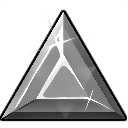
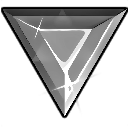
Update NFT

diff --git a/js/app.c37e594b.js b/js/app.c37e594b.js
@@ -1,0 +1,1 @@
+(()=>{"use strict";var e={76893:(e,t,o)=>{o(18964),o(40702);var a=o(61957),n=o(68266),r=o(59835);function s(e,t,o,a,n,s){const i=(0,r.up)("router-view");return(0,r.wg)(),(0,r.j4)(i)}const i=(0,r.aZ)({name:"App"});var l=o(11639);const u=(0,l.Z)(i,[["render",s]]),c=u;var h=o(23340),d=o(7363);const p=(0,h.h)((()=>{const e=(0,d.WB)();return e}));var m=o(18910);const f=[{path:"/",component:()=>Promise.all([o.e(736),o.e(64),o.e(586)]).then(o.bind(o,12586)),children:[{path:"",component:()=>Promise.all([o.e(736),o.e(64),o.e(959)]).then(o.bind(o,62963))},{path:"/games",component:()=>Promise.all([o.e(736),o.e(64),o.e(77)]).then(o.bind(o,92111))},{path:"/dice",component:()=>Promise.all([o.e(736),o.e(64),o.e(125)]).then(o.bind(o,68109))},{path:"/diceFaq",component:()=>Promise.all([o.e(736),o.e(64),o.e(465)]).then(o.bind(o,70465))},{path:"/invest",component:()=>Promise.all([o.e(736),o.e(64),o.e(504)]).then(o.bind(o,29096))},{path:"/nft",component:()=>Promise.all([o.e(736),o.e(948)]).then(o.bind(o,1948))}]},{path:"/:catchAll(.*)*",component:()=>Promise.all([o.e(736),o.e(431)]).then(o.bind(o,39431))}],y=f,g=(0,h.BC)((function(){const e=m.PO,t=(0,m.p7)({scrollBehavior:()=>({left:0,top:0}),routes:y,history:e("/")});return t}));async function v(e,t){const o=e(c);o.use(n.Z,t);const a="function"===typeof p?await p({}):p;o.use(a);const r="function"===typeof g?await g({store:a}):g;return a.use((()=>({router:r}))),{app:o,store:a,router:r}}var b=o(86229);const w={config:{},plugins:{Meta:b.ZP}};var k=o(17779);const q="/";async function _({app:e,router:t,store:o},a){let n=!1;const r=e=>{try{return t.resolve(e).href}catch(o){}return Object(e)===e?null:e},s=e=>{if(n=!0,"string"===typeof e&&/^https?:\/\//.test(e))return void(window.location.href=e);const t=r(e);null!==t&&(window.location.href=t)},i=window.location.href.replace(window.location.origin,"");for(let u=0;!1===n&&u<a.length;u++)try{await a[u]({app:e,router:t,store:o,ssrContext:null,redirect:s,urlPath:i,publicPath:q})}catch(l){return l&&l.url?void s(l.url):void k.error("[Quasar] boot error:",l)}!0!==n&&(e.use(t),e.mount("#q-app"))}v(a.ri,w).then((e=>Promise.all([Promise.resolve().then(o.bind(o,93662)),Promise.resolve().then(o.bind(o,34136))]).then((t=>{const o=t.map((e=>e.default)).filter((e=>"function"===typeof e));_(e,o)}))))},34136:(e,t,o)=>{o.r(t),o.d(t,{api:()=>s,default:()=>i});var a=o(23340),n=o(39981),r=o.n(n);const s=r().create({baseURL:"https://api.example.com"}),i=(0,a.xr)((({app:e})=>{e.config.globalProperties.$axios=r(),e.config.globalProperties.$api=s}))},93662:(e,t,o)=>{o.r(t),o.d(t,{default:()=>u});var a=o(23340),n=o(9991);const r={failed:"Action failed",success:"Action was successful",language:"Language",nft:"NFT",games:"Games",play:"Play",invest:"Invest",divest:"Divest",houseEdge:"House Edge",rake:"Rake",profit:"Profit",APR:"APR",invested:"Invested",value:"Value",payout:"Payout",chance:"Chance",wager:"Wager",rollLo:"Roll LO",rollHi:"Roll HI",player:"Player",betId:"Bet ID",lucky:"Lucky",target:"Target",howToPlay:"How to play",allBets:"All Bets",myBets:"My Bets",randomNumVRF:"We use blockchain oracle such as",randomNumVRF2:"to create SAFE and FAIR random number, everyone can easily verify the generation process.",diceFaqs:{faq:"Dice Game FAQ",ask1:"What is this Dice Game?",qus1_1:'Crystal Dice gmae is a crypto casino where you can play a blockchain dice game with a low(1%) house edge and gamble with your crypto currencies. Pick your chance to win and how much to bet, then select "HI or LO" to roll the dice and get an instant result, win or lose.',qus1_2:"Alternatively you can invest in the game's bankroll, and share in the game's profits (or losses), while helping us offer bigger maximum bets to the players.",ask2:"What does 1% house edge mean?",qus2:"Some people have been confused by this. They ask when we take the 1% off, is it after each win. It is not that. The house edge is built in to the payouts. When you play the 50% game and win, you receive 1.98 times your stake as your payout. If there was no house edge, you would receive 2 times your stake. 1.98 is 1% less than 2. That is the house edge.",ask3:"How does the Dice game work?",toPlay:"To Play:",qus3_1:{1:"Select a",2:"to win"},qus3_2:{1:"Set the",2:"size"},qus3_3:{1:"Click",2:"or",3:"depending on whether you think your roll will be high or low"},qus3_4:"Each time you roll the dice, you get a number between 0 and 100.",qus3_5:{1:"When rolling low, you need to roll less than the",2:"you selected. When rolling high, you need to roll",3:"or over."},qus3_6:"So with a 25% chance to win, low rolls win with less than 25.0000, and high rolls win with 75.0000 or more.",qus3_7:{1:"Alternatively, you can select the",2:"multiplier and the",3:"to win will be calculated for you."},qus3_8:{1:"Also, you can select the",2:"you want to make if you win, and the",3:"size will be calculated for you."},ask4:"What is the max profit?",qus4:"The max profit indicator tells you how much the house is prepared to risk per roll, and is based on the size of the house bankroll. This amount remains unchanged whatever your chance of winning. It adjusts in real time as the house bankroll grows or shrinks.",ask5:"Why are the dice rolls so slow?",qus5:"Everything is on the blockchain and a safe block confirmation time may be 20 seconds or more.",ask6:"What if I can't stop?",qus6_1:"Like all forms of gambling, online gambling can become an addiction that can have serious negative effects on your life. If you lose more than you planned to or can safely afford and find yourself struggling to control time and/or money spent gambling, please check these sites for information that could help you:",qus6_2:"Games of chance have no memory between consecutive rounds, so increasing the amount you wager after a streak of losses has no effect on the odds of winning the next round.",ask7:"Is this game a scam or Ponzi scheme? Is it insolvent?",qus7_1:"If the game was doing something simple like refusing to pay out winners, then everyone would have heard about it already.",qus7_2:"Everything is on the blockchain, and we have all the rules determined in the program code. Everyone can easily check the game smart contracts' source code on the blockchain explorer. You can find the links in each game's info box."}},s={failed:"操作失敗",success:"操作成功",language:"語言",nft:"NFT",games:"遊戲",play:"玩遊戲",invest:"投資",divest:"撤資",houseEdge:"莊家優勢",rake:"抽水",profit:"利潤",APR:"年利率(APR)",invested:"已投資",value:"價值",payout:"支付",chance:"勝率",wager:"賭注",rollLo:"買小",rollHi:"買大",player:"玩家",betId:"投注號",lucky:"幸運數",target:"目標數",howToPlay:"怎麼玩",allBets:"所有投注",myBets:"我的投注",randomNumVRF:"我們使用",randomNumVRF2:"區塊鏈預言機來創建安全且公平的隨機數, 每個人都可以輕鬆驗證生成過程.",diceFaqs:{faq:"骰子遊戲常見問題",ask1:"這是什麼骰子遊戲?",qus1_1:"水晶骰子遊戲是一個加密賭場, 您可以在其中玩低(1%)莊家優勢的區塊鏈骰子遊戲, 並使用您的加密貨幣進行賭博. 選擇您獲勝的機會和下注的金額, 然後選擇“買大/買小”來擲骰子並獲得即時結果, 無論輸贏.",qus1_2:"或者, 您可以投資遊戲的資金, 分享遊戲的利潤(或損失), 同時幫助我們為玩家提供更大的最大賭注。",ask2:"1%的莊家優勢是什麼意思?",qus2:"有些人對此感到困惑. 他們問我們什麼時候拿1%的優勢, 是在每次獲勝之後嗎? 不是這樣的, 莊家優勢內置於支出中. 當您玩50%勝率的遊戲並獲勝時, 您將獲得1.98倍的本金作為您的支出. 如果沒有莊家優勢, 您將獲得2倍的本金. 1.98比2少1%, 這就是莊家優勢.",ask3:"骰子遊戲如何運作?",toPlay:"玩法:",qus3_1:{1:"選擇一個",2:"來遊戲"},qus3_2:{1:"設置",2:"金額"},qus3_3:{1:"點擊",2:"或者",3:"取決於你認為你的幸運數是高還是低"},qus3_4:"每次擲骰子時, 您都會得到一個介於0和100之間的數字.",qus3_5:{1:"當買小時, 您需要骰子點數/幸運數小於您選擇的",2:". 當買大時, 您需要骰子點數/幸運數等於或大於",3:"."},qus3_6:"因此, 選擇25%的勝率, 當買小時骰子點數/幸運數低於25.0000獲勝, 而當買大時骰子點數/幸運數高於75.0000或更多獲勝.",qus3_7:{1:"另一种选择, 您可以選擇",2:"乘數, 系統將為您計算獲勝的",3:"."},qus3_8:{1:"此外, 您可以選擇如果您贏了想要賺取的",2:", 系統將會為您計算出需要的",3:"大小."},ask4:"什么是最大利润?",qus4:"最大利潤指標告訴您莊家每輪準備承擔多少風險, 並且基於莊家資金的大小. 無論您獲勝的機會如何, 該金額都保持不變. 它會隨著莊家資金的增加或減少而實時調整.",ask5:"為什麼擲骰子這麼慢?",qus5:"一切都在區塊鏈上，安全的區塊確認時間可能是 20 秒或更長時間.",ask6:"如果我停不下來怎麼辦?",qus6_1:"像所有形式的赌博一样, 在线赌博可能会成为一种成瘾, 对您的生活产生严重的负面影响. 如果您的损失超出您的计划或安全承受能力, 并且发现自己难以控制赌博的时间和/或金钱, 请查看这些网站以获取可以帮助您的信息:",qus6_2:"機會勝率遊戲在連續回合之間沒有記憶，因此在連續赌輸後增加您的賭注對下一輪獲勝的機率沒有影響。",ask7:"這個遊戲是騙局還是龐氏騙局? 是資不抵債嗎?",qus7_1:"如果遊戲只是做一些簡單的事情, 比如拒絕支付獲勝者, 那麼每個人都已經聽說過.",qus7_2:"一切都在區塊鏈上, 我們在程序代碼中確定了所有規則. 大家可以在區塊鏈瀏覽器上輕鬆查看遊戲智能合約的源碼. 您可以在每個遊戲的信息框中找到鏈接."}},i={failed:"失敗",success:"成功",language:"言語",nft:"NFT",games:"ゲーム",play:"遊びます",invest:"投資",divest:"売却",houseEdge:"ハウスエッジ",rake:"レーキ",profit:"利益",APR:"APR",invested:"投資済み",value:"価値",payout:"支払う",chance:"勝率",wager:"賭け金",rollLo:"小さく買う",rollHi:"大きく買う",player:"選手",betId:"賭け番号",lucky:"幸運数",target:"対象数",howToPlay:"プレイ方法",allBets:"All Bets",myBets:"My Bets",randomNumVRF:"",randomNumVRF2:"などのブロックチェーンオラクルを使用して、安全で公正な乱数を作成します。誰でも簡単に生成プロセスを確認できます。",diceFaqs:{faq:"Dice Game FAQ",ask1:"このダイスゲームは何ですか？",qus1_1:"クリスタルダイスゲームは、1％の低いハウスエッジでブロックチェーンダイスゲームをプレイし、暗号通貨でギャンブルをすることができる暗号カジノです。 勝つチャンスと賭ける金額を選び、「HIまたはLO」を選択してサイコロを振り、即座に結果を得て、勝つか負けるかを選択します。",qus1_2:"または、ゲームのバンクロールに投資して、ゲームの利益（または損失）を共有しながら、プレーヤーにより大きな最大ベットを提供することもできます。",ask2:"1％ハウスエッジとはどういう意味ですか？",qus2:"一部の人々はこれに混乱しています。 彼らは、私たちが1％オフになるのはいつか、それは各勝利の後であるかと尋ねます。 そうではありません。 ハウスエッジはペイアウトに組み込まれています。 50％のゲームをプレイして勝つと、ペイアウトの1.98倍の賭け金を受け取ります。 ハウスエッジがなかった場合、あなたはあなたの賭け金の2倍を受け取ります。 1.98は2より1％少ないです。それは家の端です。",ask3:"ダイスゲームはどのように機能しますか？",toPlay:"遊ぶには：",qus3_1:{1:"",2:"を選ぶ"},qus3_2:{1:"",2:"のサイズを設定する"},qus3_3:{1:"クリック",2:"または",3:"あなたがあなたのロールが高いか低いと思うかどうかに応じて"},qus3_4:"サイコロを振るたびに、0〜100の数字が出ます。",qus3_5:{1:"低く転がるときは、選択した",2:"より少なく転がる必要があります。 高く転がるときは、",3:"以上転がる必要があります。"},qus3_6:"したがって、25％の勝率を選択すると、購入が小さい場合はサイコロポイント/ラッキー数が25.0000未満になり、大きい購入の場合はサイコロポイント/ラッキー数が75.0000以上になります。",qus3_7:{1:"または、",2:"マルチプライヤーを選択すると、勝つための",3:"が計算されます。"},qus3_8:{1:"また、勝った場合の",2:"を選択すると、",3:"のサイズが計算されます。"},ask4:"最大利益はいくらですか？",qus4:"最大利益指標は、家がロールごとにリスクを負う準備ができているかどうかを示し、家のバンクロールのサイズに基づいています。 この金額は、勝つチャンスが何であれ、変わりません。 家のバンクロールが拡大または縮小すると、リアルタイムで調整されます。",ask5:"サイコロの目がとても遅いのはなぜですか？",qus5:"すべてがブロックチェーン上にあり、安全なブロック確認時間は20秒以上になる場合があります。",ask6:"プレイをやめられない場合はどうなりますか？",qus6_1:"あらゆる形態のギャンブルと同様に、オンラインギャンブルは、あなたの人生に深刻な悪影響を与える可能性のある依存症になる可能性があります。 予定よりも多くを失うか、安全に余裕があり、ギャンブルに費やす時間やお金を管理するのに苦労していることに気付いた場合は、これらのサイトで役立つ情報を確認してください：",qus6_2:"運が左右するゲームには、連続するラウンドの間に記憶がないため、一連の損失の後に賭ける金額を増やしても、次のラウンドに勝つ確率には影響しません。",ask7:"このゲームは詐欺ですか、それともポンジースキームですか？ それは破産していますか？",qus7_1:"ゲームが勝者への支払いを拒否するような単純なことをしているとしたら、誰もがすでにそれについて聞いたことがあるでしょう。",qus7_2:"すべてがブロックチェーン上にあり、プログラムコードですべてのルールが決定されています。 誰もがブロックチェーンエクスプローラーでゲームのスマートコントラクトのソースコードを簡単に確認できます。 リンクは各ゲームの情報ボックスにあります。"}},l={"en-US":r,"zh-TW":s,"ja-JP":i},u=(0,a.xr)((({app:e})=>{const t=(0,n.o)({locale:"en-US",messages:l});e.use(t)}))}},t={};function o(a){var n=t[a];if(void 0!==n)return n.exports;var r=t[a]={id:a,loaded:!1,exports:{}};return e[a].call(r.exports,r,r.exports,o),r.loaded=!0,r.exports}o.m=e,(()=>{o.amdO={}})(),(()=>{var e=[];o.O=(t,a,n,r)=>{if(!a){var s=1/0;for(c=0;c<e.length;c++){for(var[a,n,r]=e[c],i=!0,l=0;l<a.length;l++)(!1&r||s>=r)&&Object.keys(o.O).every((e=>o.O[e](a[l])))?a.splice(l--,1):(i=!1,r<s&&(s=r));if(i){e.splice(c--,1);var u=n();void 0!==u&&(t=u)}}return t}r=r||0;for(var c=e.length;c>0&&e[c-1][2]>r;c--)e[c]=e[c-1];e[c]=[a,n,r]}})(),(()=>{o.n=e=>{var t=e&&e.__esModule?()=>e["default"]:()=>e;return o.d(t,{a:t}),t}})(),(()=>{o.d=(e,t)=>{for(var a in t)o.o(t,a)&&!o.o(e,a)&&Object.defineProperty(e,a,{enumerable:!0,get:t[a]})}})(),(()=>{o.f={},o.e=e=>Promise.all(Object.keys(o.f).reduce(((t,a)=>(o.f[a](e,t),t)),[]))})(),(()=>{o.u=e=>"js/"+(64===e?"chunk-common":e)+"."+{64:"51d9ff05",77:"d90b74cc",125:"c050a886",431:"312816a6",465:"286a1cd3",504:"b701b7c8",586:"4b8c9ad5",948:"6157148b",959:"b52c0d4d"}[e]+".js"})(),(()=>{o.miniCssF=e=>"css/"+({143:"app",736:"vendor"}[e]||e)+"."+{77:"111e91bf",125:"4147ea25",143:"31d6cfe0",504:"cabbc83d",586:"5293eabb",736:"c24c493d",948:"5c2b2d3c",959:"1af3e3c4"}[e]+".css"})(),(()=>{o.g=function(){if("object"===typeof globalThis)return globalThis;try{return this||new Function("return this")()}catch(e){if("object"===typeof window)return window}}()})(),(()=>{o.o=(e,t)=>Object.prototype.hasOwnProperty.call(e,t)})(),(()=>{var e={},t="crystal-dapp:";o.l=(a,n,r,s)=>{if(e[a])e[a].push(n);else{var i,l;if(void 0!==r)for(var u=document.getElementsByTagName("script"),c=0;c<u.length;c++){var h=u[c];if(h.getAttribute("src")==a||h.getAttribute("data-webpack")==t+r){i=h;break}}i||(l=!0,i=document.createElement("script"),i.charset="utf-8",i.timeout=120,o.nc&&i.setAttribute("nonce",o.nc),i.setAttribute("data-webpack",t+r),i.src=a),e[a]=[n];var d=(t,o)=>{i.onerror=i.onload=null,clearTimeout(p);var n=e[a];if(delete e[a],i.parentNode&&i.parentNode.removeChild(i),n&&n.forEach((e=>e(o))),t)return t(o)},p=setTimeout(d.bind(null,void 0,{type:"timeout",target:i}),12e4);i.onerror=d.bind(null,i.onerror),i.onload=d.bind(null,i.onload),l&&document.head.appendChild(i)}}})(),(()=>{o.r=e=>{"undefined"!==typeof Symbol&&Symbol.toStringTag&&Object.defineProperty(e,Symbol.toStringTag,{value:"Module"}),Object.defineProperty(e,"__esModule",{value:!0})}})(),(()=>{o.nmd=e=>(e.paths=[],e.children||(e.children=[]),e)})(),(()=>{o.p="/"})(),(()=>{var e=(e,t,o,a)=>{var n=document.createElement("link");n.rel="stylesheet",n.type="text/css";var r=r=>{if(n.onerror=n.onload=null,"load"===r.type)o();else{var s=r&&("load"===r.type?"missing":r.type),i=r&&r.target&&r.target.href||t,l=new Error("Loading CSS chunk "+e+" failed.\n("+i+")");l.code="CSS_CHUNK_LOAD_FAILED",l.type=s,l.request=i,n.parentNode.removeChild(n),a(l)}};return n.onerror=n.onload=r,n.href=t,document.head.appendChild(n),n},t=(e,t)=>{for(var o=document.getElementsByTagName("link"),a=0;a<o.length;a++){var n=o[a],r=n.getAttribute("data-href")||n.getAttribute("href");if("stylesheet"===n.rel&&(r===e||r===t))return n}var s=document.getElementsByTagName("style");for(a=0;a<s.length;a++){n=s[a],r=n.getAttribute("data-href");if(r===e||r===t)return n}},a=a=>new Promise(((n,r)=>{var s=o.miniCssF(a),i=o.p+s;if(t(s,i))return n();e(a,i,n,r)})),n={143:0};o.f.miniCss=(e,t)=>{var o={77:1,125:1,504:1,586:1,948:1,959:1};n[e]?t.push(n[e]):0!==n[e]&&o[e]&&t.push(n[e]=a(e).then((()=>{n[e]=0}),(t=>{throw delete n[e],t})))}})(),(()=>{var e={143:0};o.f.j=(t,a)=>{var n=o.o(e,t)?e[t]:void 0;if(0!==n)if(n)a.push(n[2]);else{var r=new Promise(((o,a)=>n=e[t]=[o,a]));a.push(n[2]=r);var s=o.p+o.u(t),i=new Error,l=a=>{if(o.o(e,t)&&(n=e[t],0!==n&&(e[t]=void 0),n)){var r=a&&("load"===a.type?"missing":a.type),s=a&&a.target&&a.target.src;i.message="Loading chunk "+t+" failed.\n("+r+": "+s+")",i.name="ChunkLoadError",i.type=r,i.request=s,n[1](i)}};o.l(s,l,"chunk-"+t,t)}},o.O.j=t=>0===e[t];var t=(t,a)=>{var n,r,[s,i,l]=a,u=0;if(s.some((t=>0!==e[t]))){for(n in i)o.o(i,n)&&(o.m[n]=i[n]);if(l)var c=l(o)}for(t&&t(a);u<s.length;u++)r=s[u],o.o(e,r)&&e[r]&&e[r][0](),e[r]=0;return o.O(c)},a=self["webpackChunkcrystal_dapp"]=self["webpackChunkcrystal_dapp"]||[];a.forEach(t.bind(null,0)),a.push=t.bind(null,a.push.bind(a))})();var a=o.O(void 0,[736],(()=>o(76893)));a=o.O(a)})();

diff --git a/js/948.6157148b.js b/js/948.6157148b.js
@@ -1,0 +1,1 @@
+"use strict";(self["webpackChunkcrystal_dapp"]=self["webpackChunkcrystal_dapp"]||[]).push([[948],{1948:(e,l,t)=>{t.r(l),t.d(l,{default:()=>C});var o=t(59835);const r=e=>((0,o.dD)("data-v-195ddc90"),e=e(),(0,o.Cn)(),e),a=r((()=>(0,o._)("div",{style:{width:"100%","padding-top":"100px","padding-bottom":"100px"},class:"text-lightWhite text-h3 text-bold text-center"}," Coming Soon... ",-1)));function n(e,l,t,r,n,c){const f=(0,o.up)("CrystalGem"),s=(0,o.up)("q-page");return(0,o.wg)(),(0,o.j4)(s,{class:"row items-center justify-evenly"},{default:(0,o.w5)((()=>[a,((0,o.wg)(),(0,o.iD)(o.HY,null,(0,o.Ko)(999,(e=>(0,o.Wm)(f,{key:e,nft:e-1,level:(e-1)%16,color:(e-1)%6},null,8,["nft","level","color"]))),64))])),_:1})}var c=t(19302),f=t(65457),s=t(86970);function v(e,l,t,r,a,n){return(0,o.wg)(),(0,o.iD)("div",{class:"gem",style:(0,s.j5)(e.imgStyle)},null,4)}var u=t(60499);const d=(0,o.aZ)({name:"CrystalGem",props:{nft:{type:Number,required:!0},level:{type:Number,required:!0},color:{type:Number,required:!0}},setup(e){const l=(0,u.iH)("#ffffff"),t=(0,u.iH)("gems/15.png"),o=(0,u.iH)("");switch(e.color){case 1:l.value="#ff0000";break;case 2:l.value="#00ff00";break;case 3:l.value="#0000ff";break;case 4:l.value="#ffff00";break;case 5:l.value="#800080";break;default:break}return t.value="gems/"+e.level.toString()+".png",o.value="height: 128px; width: 128px; background-blend-mode: hard-light; -webkit-mask-mode: alpha; mask-mode: alpha; background-image: url('"+t.value+"'), linear-gradient("+l.value+", "+l.value+"); -webkit-mask-image: url('"+t.value+"'); mask-image: url('"+t.value+"'); ",{imgColor:l,imgUrl:t,imgStyle:o}}});var i=t(11639);const m=(0,i.Z)(d,[["render",v],["__scopeId","data-v-4f1acb6a"]]),p=m,g={title:"Crystal - NFT"},k=(0,o.aZ)({name:"NftClaimPage",components:{CrystalGem:p},setup(){const e=(0,c.Z)();return e.dark.set(!0),(0,f.Z)(g),{allGems:[{nft:123,level:0,color:0},{nft:123,level:1,color:1},{nft:123,level:2,color:2},{nft:123,level:3,color:3},{nft:123,level:4,color:4},{nft:123,level:5,color:5},{nft:123,level:6,color:0},{nft:123,level:7,color:1},{nft:123,level:8,color:2},{nft:123,level:9,color:3},{nft:123,level:10,color:4},{nft:123,level:11,color:5},{nft:123,level:12,color:0},{nft:123,level:13,color:1},{nft:123,level:14,color:2},{nft:123,level:15,color:3},{nft:123,level:11,color:4},{nft:123,level:11,color:5},{nft:123,level:12,color:3},{nft:123,level:13,color:4},{nft:123,level:14,color:5},{nft:123,level:15,color:6}]}}});var b=t(69885),y=t(69984),h=t.n(y);const w=(0,i.Z)(k,[["render",n],["__scopeId","data-v-195ddc90"]]),C=w;h()(k,"components",{QPage:b.Z})}}]);

diff --git a/404.html b/404.html
@@ -4,4 +4,4 @@
       }
       gtag('js', new Date());
 
-      gtag('config', 'G-66T090DD1W');</script><script defer src=/js/vendor.991dc8d9.js></script><script defer src=/js/app.b56e56bf.js></script><link href=/css/vendor.c24c493d.css rel=stylesheet><link href=/css/app.31d6cfe0.css rel=stylesheet></head><body><div id=q-app></div></body></html>
+      gtag('config', 'G-66T090DD1W');</script><script defer src=/js/vendor.991dc8d9.js></script><script defer src=/js/app.c37e594b.js></script><link href=/css/vendor.c24c493d.css rel=stylesheet><link href=/css/app.31d6cfe0.css rel=stylesheet></head><body><div id=q-app></div></body></html>

diff --git a/index.html b/index.html
@@ -4,4 +4,4 @@
       }
       gtag('js', new Date());
 
-      gtag('config', 'G-66T090DD1W');</script><script defer src=/js/vendor.991dc8d9.js></script><script defer src=/js/app.b56e56bf.js></script><link href=/css/vendor.c24c493d.css rel=stylesheet><link href=/css/app.31d6cfe0.css rel=stylesheet></head><body><div id=q-app></div></body></html>
+      gtag('config', 'G-66T090DD1W');</script><script defer src=/js/vendor.991dc8d9.js></script><script defer src=/js/app.c37e594b.js></script><link href=/css/vendor.c24c493d.css rel=stylesheet><link href=/css/app.31d6cfe0.css rel=stylesheet></head><body><div id=q-app></div></body></html>

diff --git a/css/948.5c2b2d3c.css b/css/948.5c2b2d3c.css
@@ -1,0 +1,1 @@
+.gem[data-v-4f1acb6a]{transform:scale(.5)}.text-lightWhite[data-v-195ddc90]{color:#fff3!important}.bg-lightWhite[data-v-195ddc90]{background:#fff3!important}
